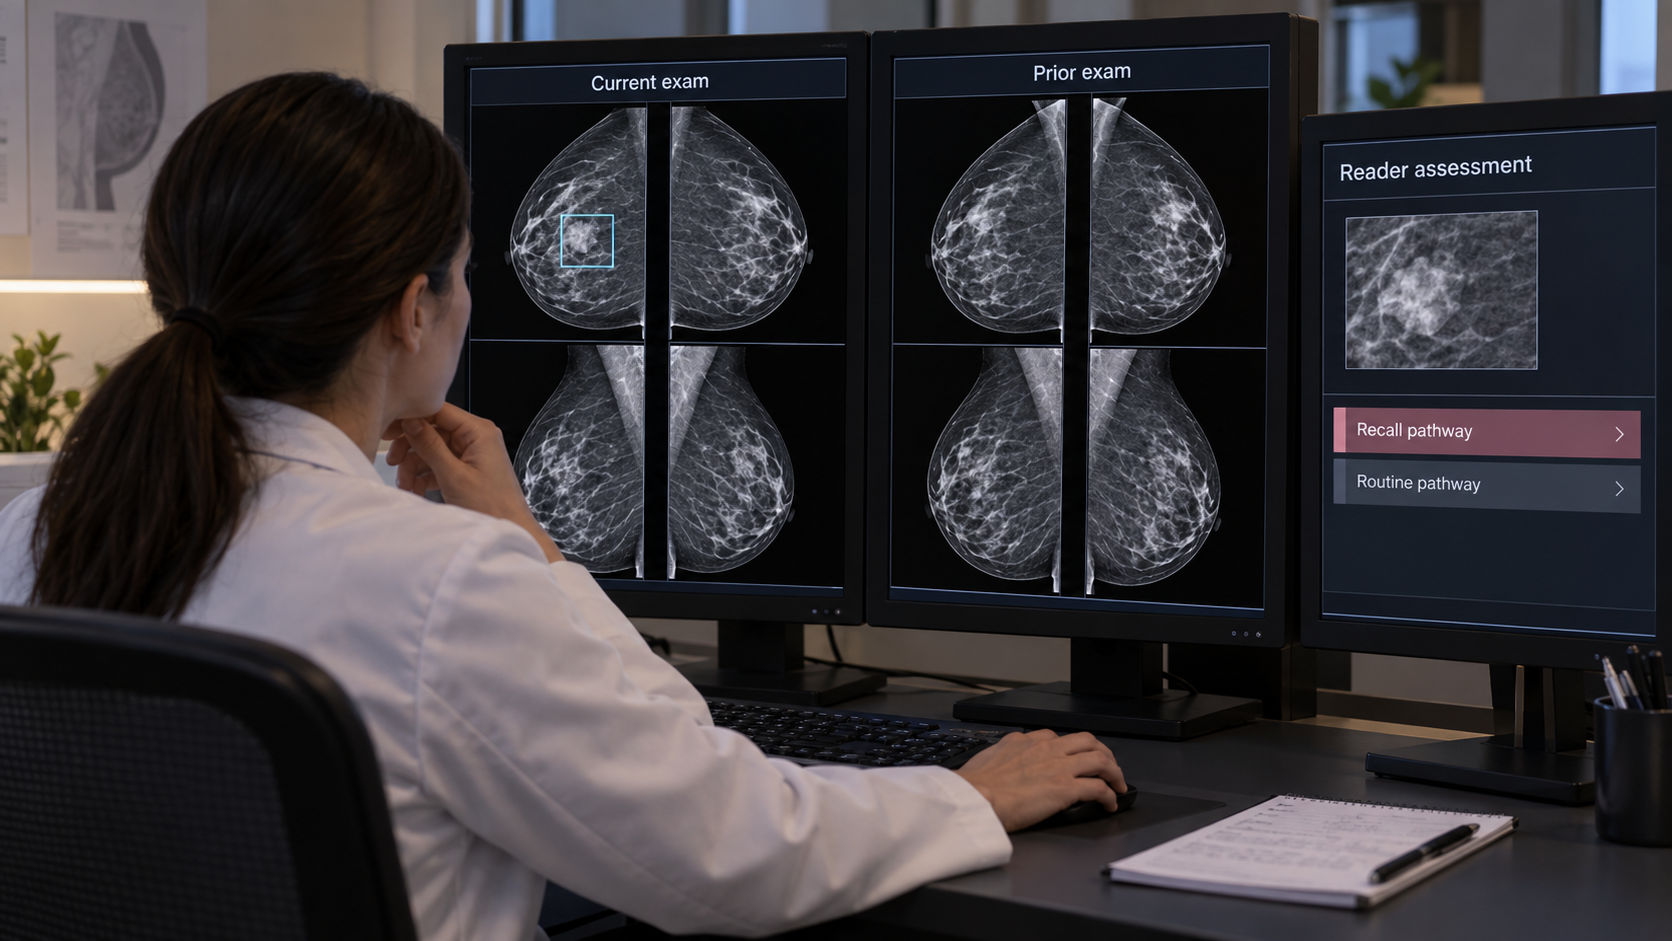
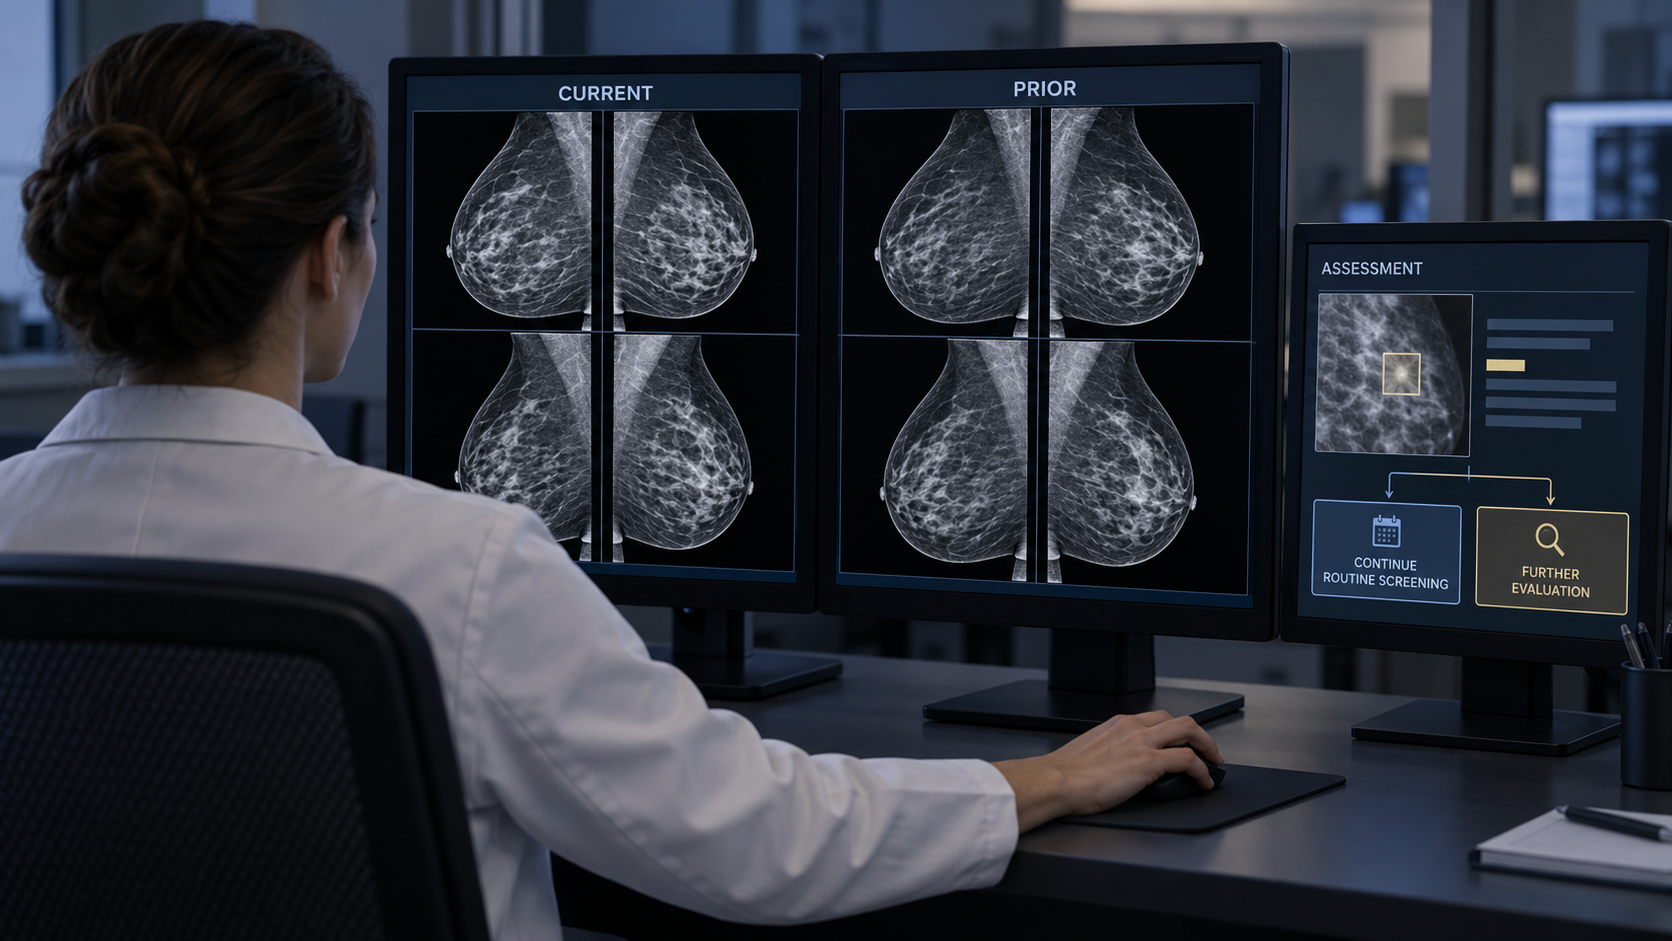
Expand dataset appendix and replace mammography workflow image

diff --git a/scripts/book_catalog.py b/scripts/book_catalog.py
@@ -27,3 +27,21 @@ def render_catalog(kind, modalities=None, include_general=False):
     for r in rows:
         print('| '+' | '.join('[Source]('+r[key]+')' if key=='link' else cell(r[key]) for key,_ in cols)+' |')
     print('\n:::\n')
+
+def render_community_datasets():
+    with (ROOT/'data'/'community-datasets.csv').open(encoding='utf-8', newline='') as f:
+        rows = list(csv.DictReader(f))
+    groups = {}
+    for row in rows:
+        groups.setdefault(row['group'], []).append(row)
+    def cell(value):
+        return value.replace('|', '\\|').replace('\n', ' ')
+    for group, entries in groups.items():
+        print(f'### {group} ({len(entries)})\n')
+        print('::: {.table-responsive}\n')
+        print('| Dataset | Anatomy | Modality as listed | Segmentation target | Source |')
+        print('|---|---|---|---|---|')
+        for row in sorted(entries, key=lambda item: item['name'].casefold()):
+            source = f"[{row['link_type']}](<{row['link']}>) ({row['worksheet']} row {row['row']})"
+            print('| ' + ' | '.join(cell(row[key]) for key in ('name', 'anatomy', 'modality', 'targets')) + f' | {source} |')
+        print('\n:::\n')

diff --git a/data/README.md b/data/README.md
@@ -3,6 +3,7 @@
 These CSVs power the chapter tables and the three reference directories. The non-CXR entries were reviewed for this edition on **2026-09-22**; the CXR rows retain their earlier source-review notes. This is a selected educational directory, not a complete market survey, endorsement, or guarantee of current availability.
 
 - `datasets.csv`: counts refer to the named release and unit. Where releases differ, the table deliberately gives no combined count. Access agreements and image rights must be checked at the source.
+- `community-datasets.csv`: a separate snapshot of the [community dataset spreadsheet](https://docs.google.com/spreadsheets/d/1QxjFs41eU6JG5KNhP576fc8MotrJ58KCrqH83HG-__E/edit?gid=2057737934#gid=2057737934), captured 2026-09-22. It supplies the expanded Appendix A list without changing the chapter-level curated tables. Worksheet and row identify provenance; modality, anatomy, targets, and links are transcribed or lightly normalized, not independently verified. Duplicate dataset–modality entries and non-dataset submissions were omitted. `link_type=Paper` indicates that the sheet provided no dataset URL. Contributor email addresses are not retained.
 - `models.csv`: distinguish code, weights, data, and clinical-use terms. `any` means a reusable development framework or model family, not proven compatibility with every modality. Pin an exact checkpoint and inspect its input contract.
 - `fda-products.csv`: each row links to a specific historical FDA submission. A 510(k) clearance and a De Novo authorization are different pathways. Names, ownership, versions, and current labeling can change; consult the actual applicable device documentation before implementation. This table includes quantitative software and does not claim every entry uses deep learning.
 
